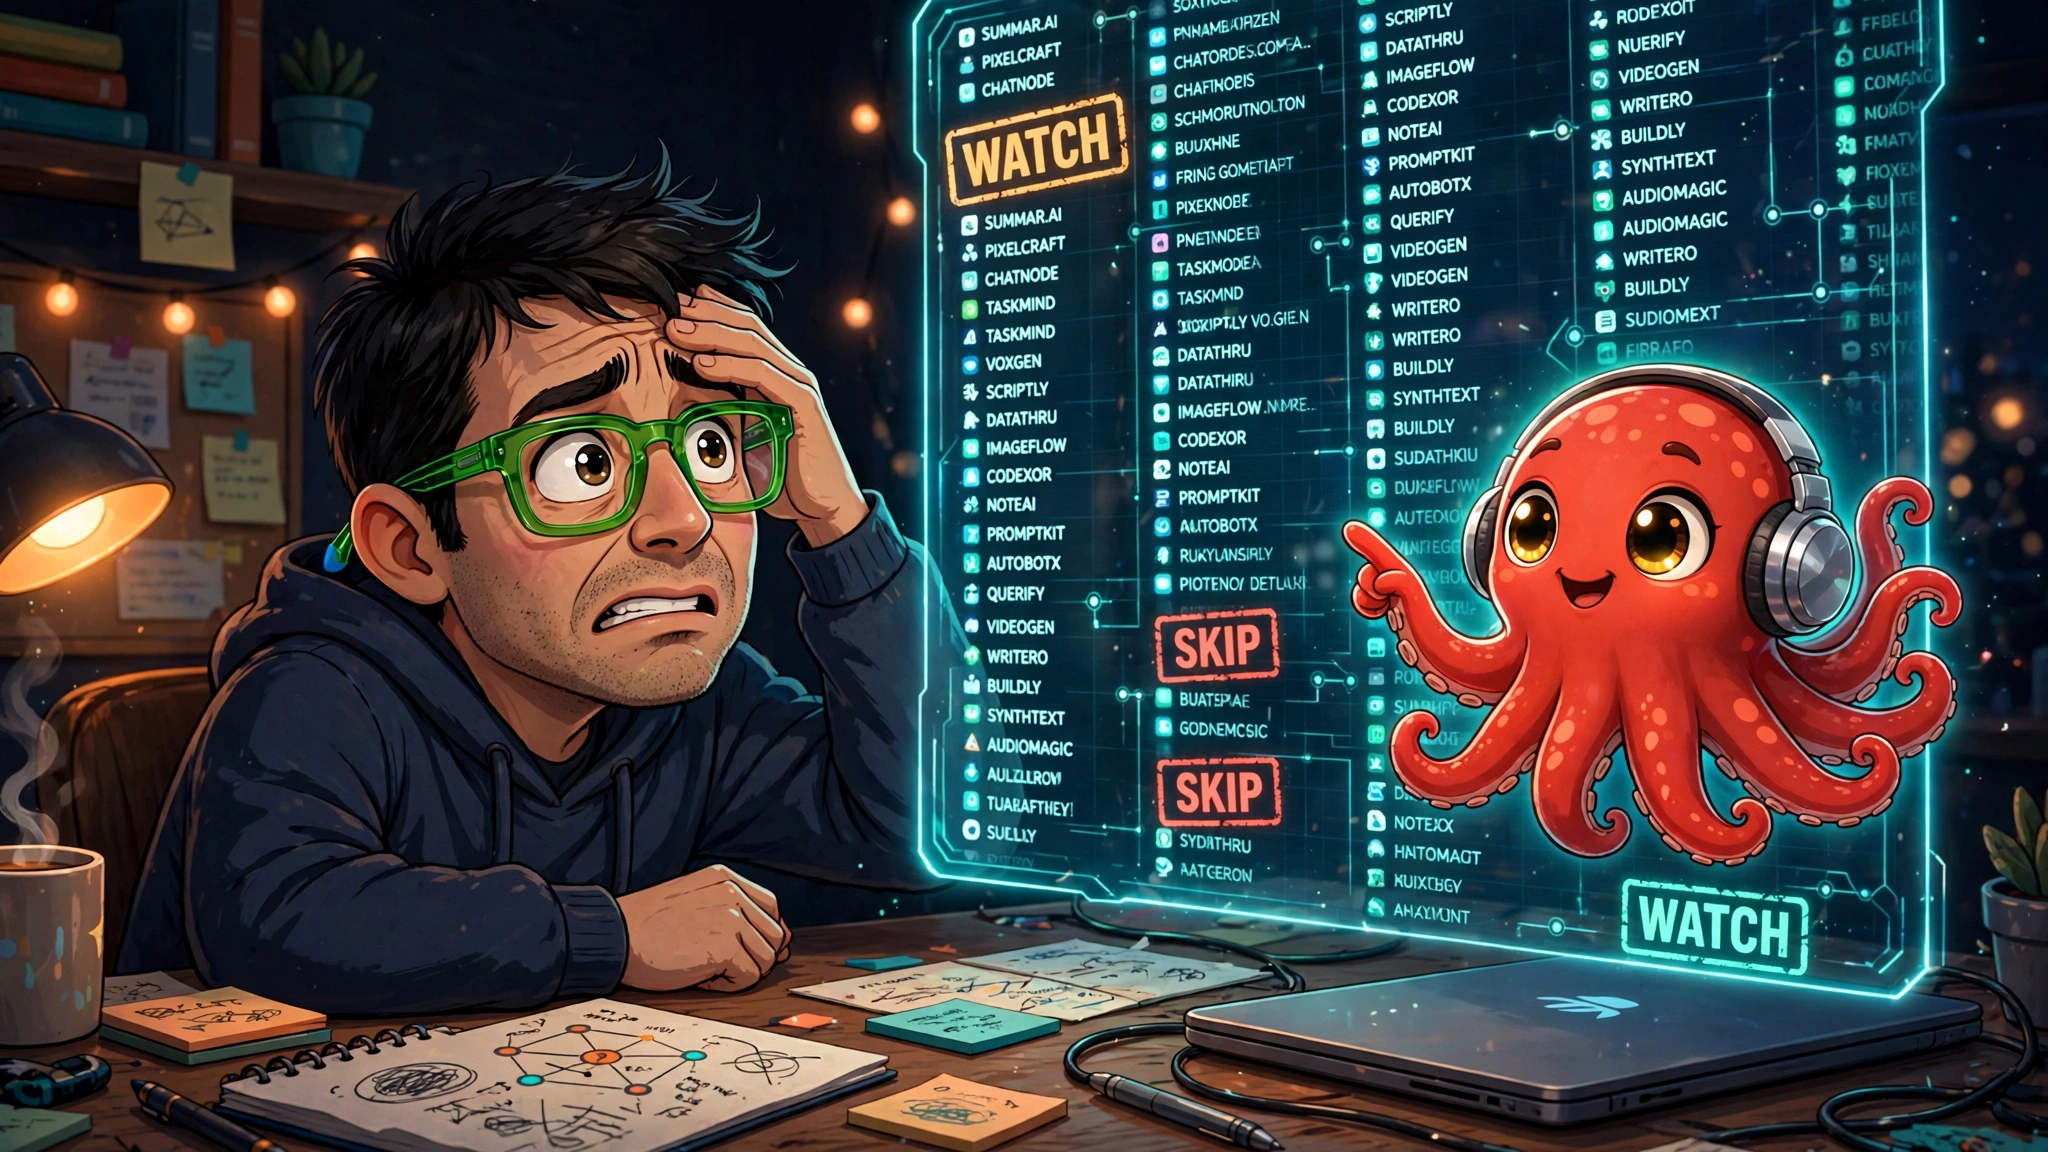
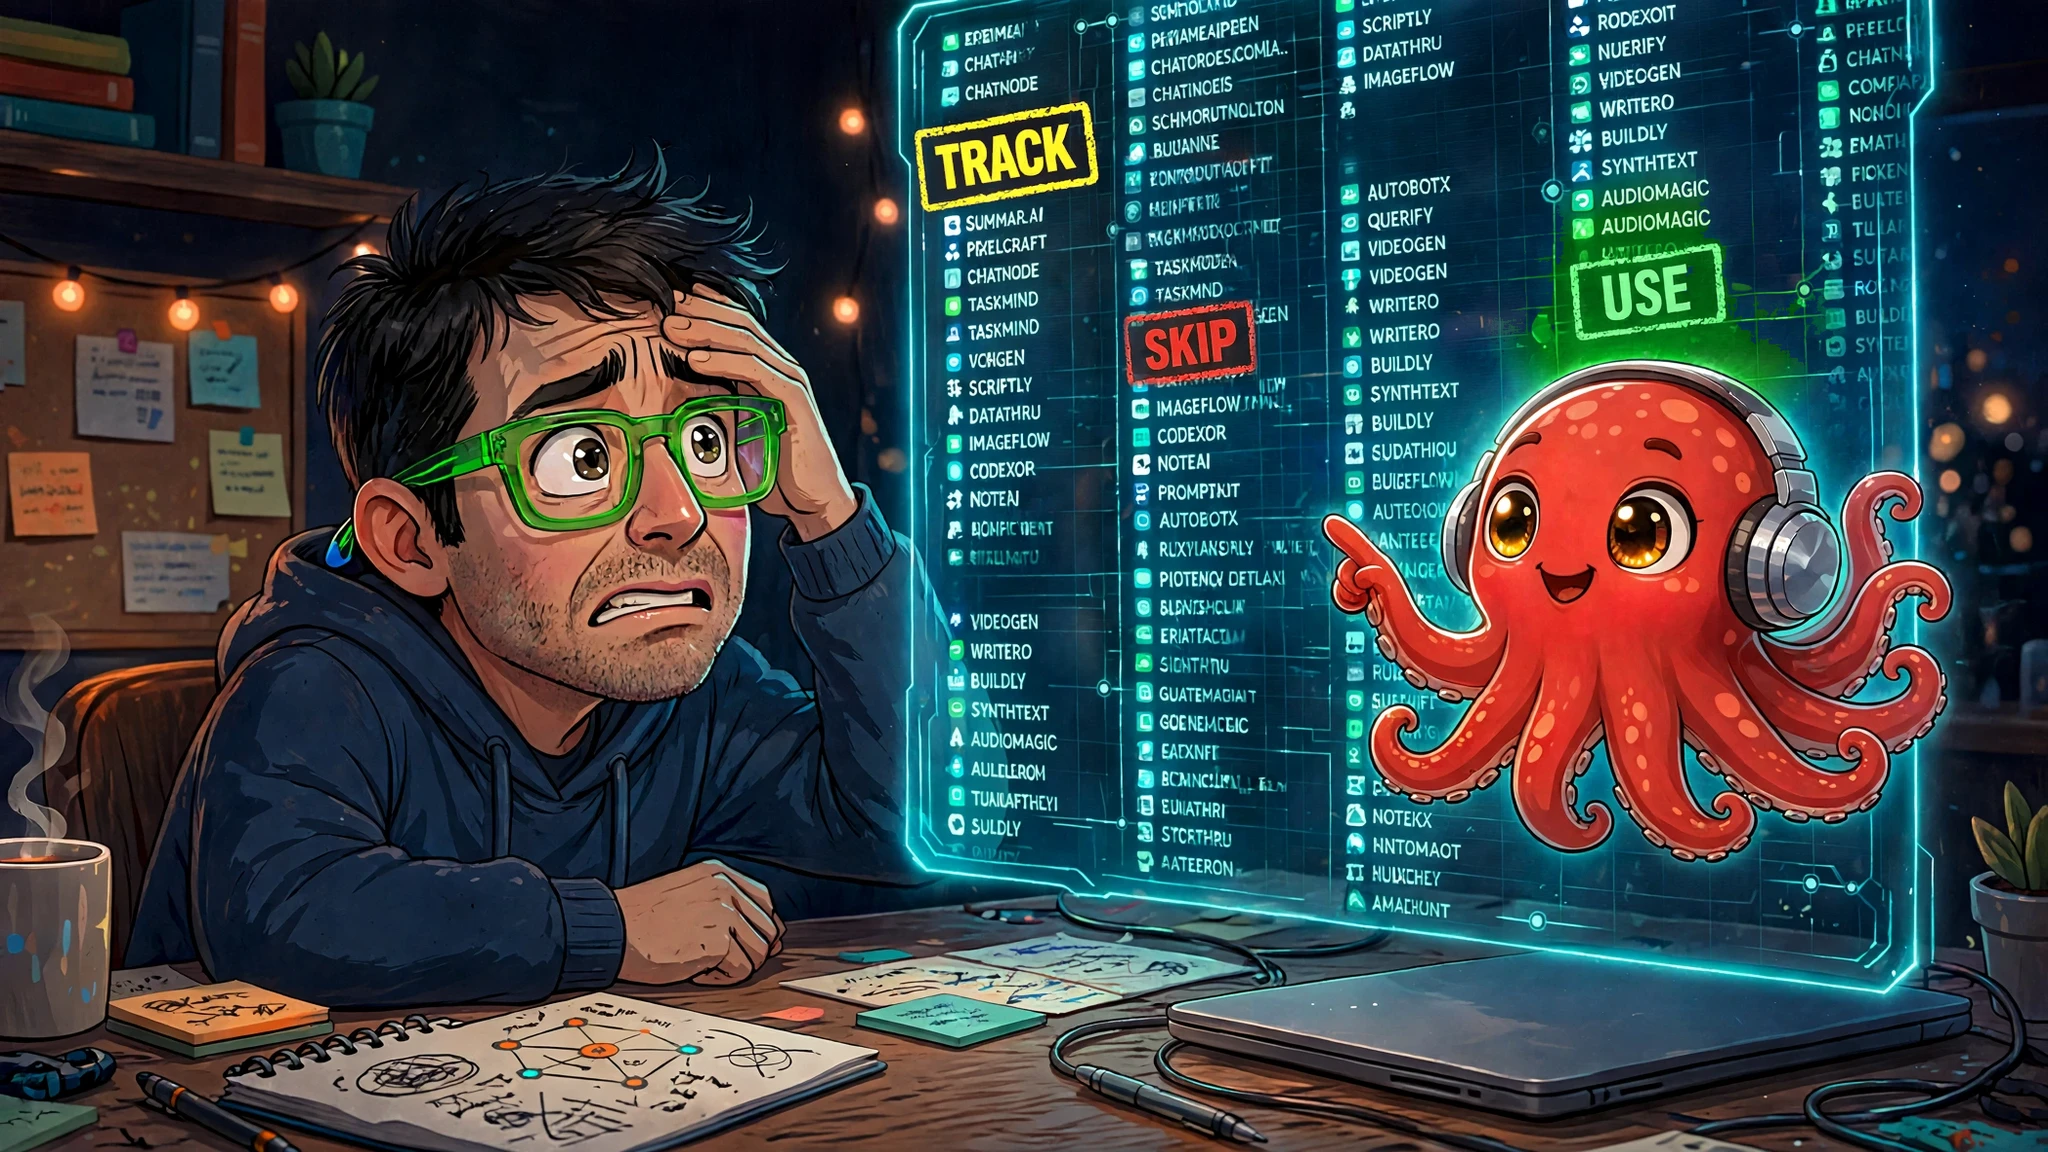
AI Tool Brief hero: TRACK/SKIP/USE stamps (yellow TRACK, red SKIP five rows down, green USE); alt text updated

diff --git a/ai-tools/index.html b/ai-tools/index.html
@@ -66,7 +66,7 @@
     </header>
 
     <div class="at-wrap">
-      <img class="at-art" src="/assets/ai-tool-briefs.webp" width="2048" height="1152" alt="Illustration of Freddie Avalos in his bright green glasses, hand to his forehead, overwhelmed by a huge holographic list of AI tools stamped WATCH and SKIP, presented by Huxley, a red octopus wearing silver headphones">
+      <img class="at-art" src="/assets/ai-tool-briefs.webp" width="2048" height="1152" alt="Illustration of Freddie Avalos in his bright green glasses, hand to his forehead, overwhelmed by a huge holographic list of AI tools stamped TRACK, SKIP and USE, presented by Huxley, a red octopus wearing silver headphones">
       <div class="at-intro">
         <p>What it is. Who's behind it. What it does. What it costs. What the catch is. And whether it earns a place in a real working stack. Every price below was checked on the maker's own site — never the launch post, never the ad — and every verdict is graded against the tools that actually run Honed Signal today: <strong>USE IT</strong>, <strong>TRACK IT</strong>, or <strong>SKIP IT</strong>.</p>
         <p>41 tools briefed so far, newest first. The list grows as new briefs land — if a tool isn't here, it hasn't been checked yet.</p>
